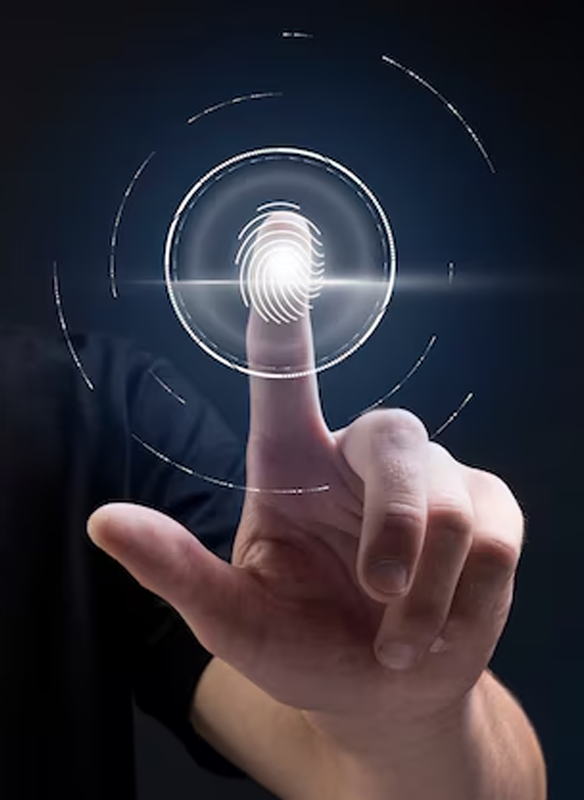
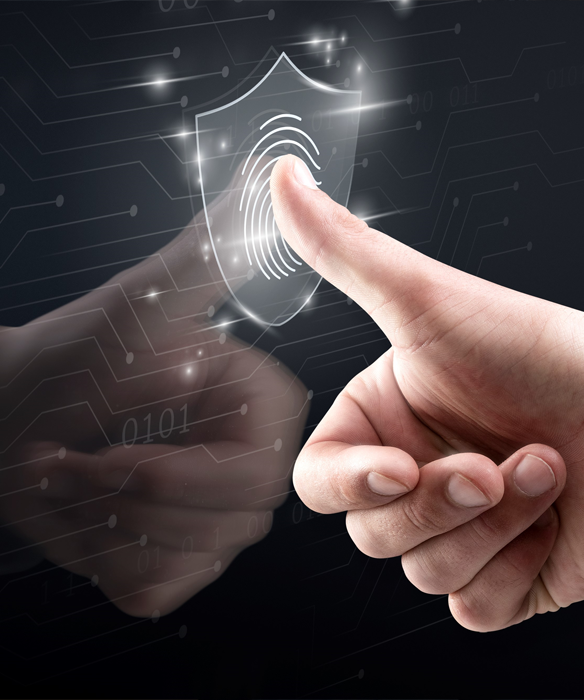
update

diff --git a/src/data/ItServices.js b/src/data/ItServices.js
@@ -5,10 +5,10 @@ import serverimg from "../assets/it-services/images/server_management.png";
 import cyberimg from "../assets/it-services/images/cyber_security.png";
 import voipimg from "../assets/it-services/images/voip_communication.png";
 import databackupimg from "../assets/it-services/images/data_backup_disaster_recovery.png";
-import helpdeskimg from "../assets/it-services/images/data_backup_disaster_recovery.png";
-import infrastructure_storageimg from "../assets/it-services/images/data_backup_disaster_recovery.png";
-import identityimg from "../assets/it-services/images/data_backup_disaster_recovery.png";
-import itconsultingimg from "../assets/it-services/images/data_backup_disaster_recovery.png";
+import helpdeskimg from "../assets/it-services/images/helpdesk_technical_support.png";
+import infrastructure_storageimg from "../assets/it-services/images/infrastructure_storage_services.png";
+import identityimg from "../assets/it-services/images/identity_access_management.png";
+import itconsultingimg from "../assets/it-services/images/it_consulting_strategy.png";
 
 // import hero section images here
 import industryhero from "../assets/industry-page/images/industryhero.png";
@@ -38,7 +38,7 @@ export const industryPageData = [
   },
   {
     id: 2,
-    img: cloudimg,
+    img: networkimg,
     heading: "Network Management Services",
     desc: "Optimizing network performance and security with cutting-edge solutions. Our network management services ensure robust, reliable, and scalable network infrastructure.",
     data: [
@@ -53,7 +53,7 @@ export const industryPageData = [
 
   {
     id: 3,
-    img: cloudimg,
+    img: serverimg,
     heading: "Server Management Services",
     desc: "Enhancing server performance and reliability with comprehensive management solutions. Our server management services ensure secure, optimized, and scalable server infrastructure.",
     data: [
@@ -67,7 +67,7 @@ export const industryPageData = [
   },
   {
     id: 4,
-    img: cloudimg,
+    img: cyberimg,
     heading: "Cyber Security Services",
     desc: "Kellton excels in cybersecurity, protecting businesses with comprehensive solutions. We ensure a secure, resilient digital ecosystem, safeguarding data and assets from evolving threats.",
     data: [
@@ -81,7 +81,7 @@ export const industryPageData = [
   },
   {
     id: 5,
-    img: cloudimg,
+    img: voipimg,
     heading: "VoIP and Connection Services",
     desc: "Delivering seamless communication solutions to enhance business connectivity. Our VoIP and connection services ensure reliable, high-quality voice and data transmission.",
     data: [
@@ -110,7 +110,7 @@ export const industryPageData = [
   },
   {
     id: 7,
-    img: databackupimg,
+    img: helpdeskimg,
 
     heading: "Helpdesk and Technical Support",
     desc: "Providing expert assistance to resolve technical issues efficiently. Our helpdesk and support services ensure minimal downtime and optimal performance.",
@@ -125,7 +125,7 @@ export const industryPageData = [
   },
   {
     id: 8,
-    img: databackupimg,
+    img: infrastructure_storageimg,
     heading: "Infrastructure and Storage Services",
     desc: "Designing and managing robust infrastructure solutions for efficient data storage and access. Our services ensure high availability, security, and scalability.",
     data: [
@@ -139,7 +139,7 @@ export const industryPageData = [
   },
   {
     id: 9,
-    img: databackupimg,
+    img: identityimg,
 
     heading: "Identity & Access Management",
     desc: "Implementing comprehensive identity and access management solutions to safeguard sensitive information and streamline user access controls.",
@@ -154,7 +154,7 @@ export const industryPageData = [
   },
   {
     id: 7,
-    img: databackupimg,
+    img: itconsultingimg,
 
     heading: "IT Consulting & Strategy",
     desc: "Offering expert advice to optimize IT investments and align technology with business goals. Our consulting services drive strategic IT initiatives and transformation.",

diff --git a/src/container/it-services/ItServicesSection.jsx b/src/container/it-services/ItServicesSection.jsx
@@ -7,7 +7,7 @@ export default function ItServicesSection() {
   const isTab = useMediaQuery({ maxWidth: 1024 });
 
   return (
-    <section>
+    <section className="mx-20">
       {industryPageData.map((item, index) => (
         <div
           key={index}
